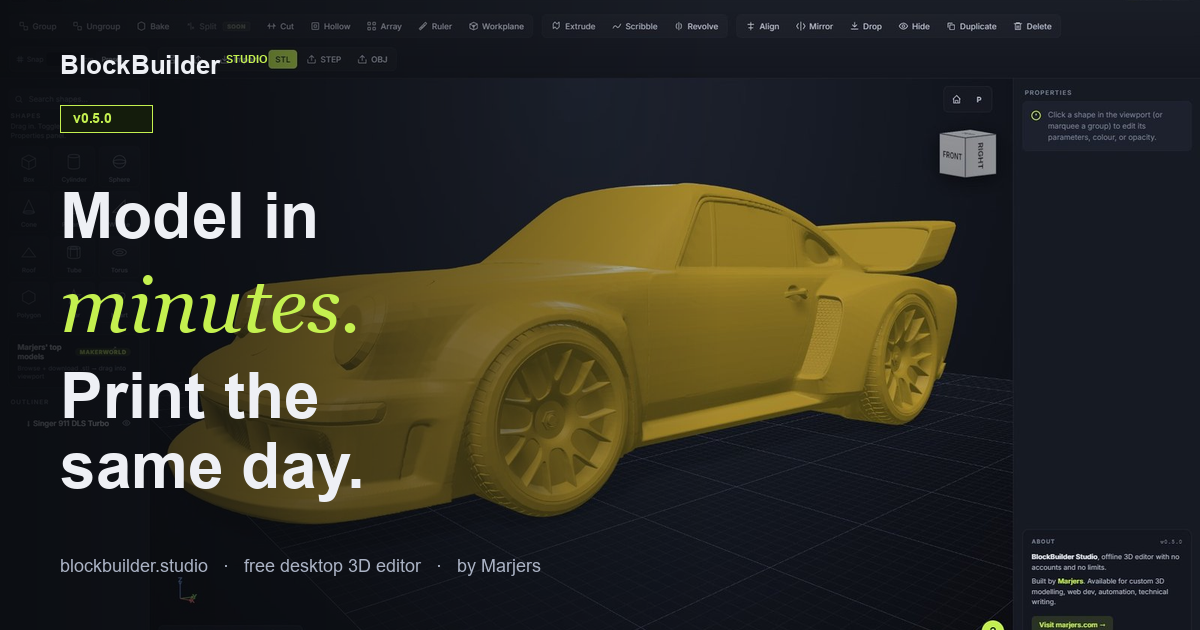
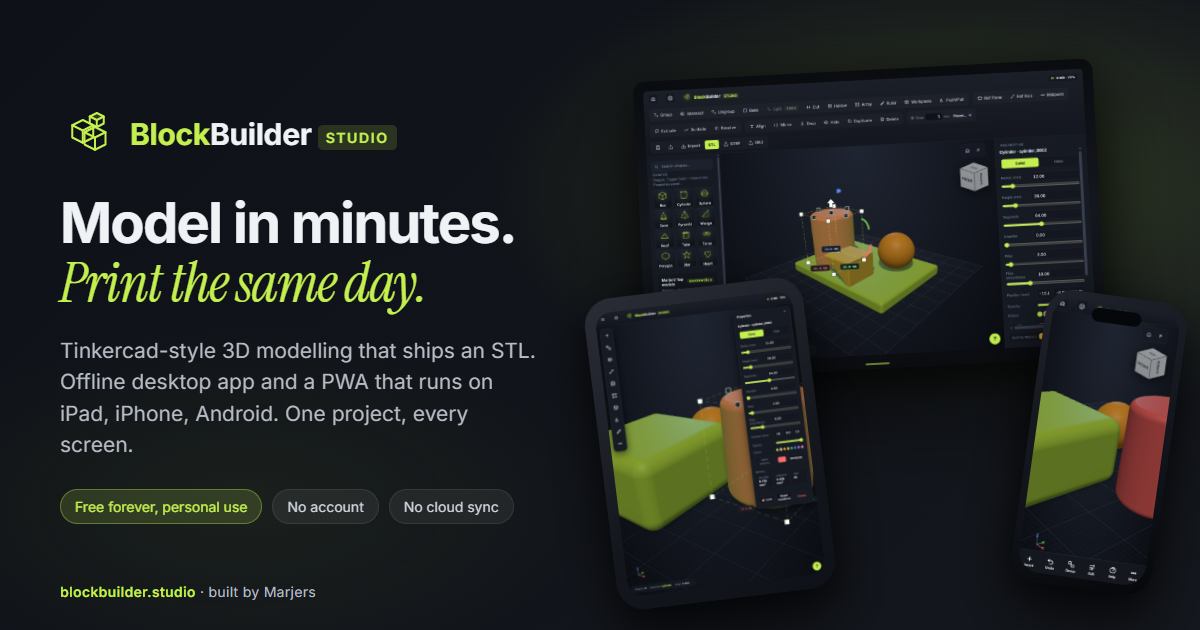
feat(site): fresh OG image + updated social meta tags
Replaced og-cover.png with a fresh 1200x630 composition: BlockBuilder
mark + name (with STUDIO badge), heading "Model in minutes. / Print the
same day." (serif italic accent), subtitle covering desktop + iPad +
iPhone + Android, three pills "Free forever", "No account", "No cloud
sync", and a 3-device mockup composition on the right (monitor angled
-3 with the desktop scene + tablet bottom-left -7 + phone bottom-right
+8 with notch). Lime radial accent in the corners.

og:title now leads with the tagline, og:description names the platforms
explicitly so a shared link in WhatsApp / Discord / Slack / Twitter
makes the multi-device story obvious in the preview card. Meta
description rewritten to mention push/pull, reference geometry,
sketch tools.

Source HTML used to compose the image (website/og-composer.html) removed
after the screenshot was captured; it lived just to be screenshotted at
1200x630 by Playwright.

diff --git a/website/index.html b/website/index.html
@@ -4,10 +4,10 @@
 <meta charset="utf-8" />
 <meta name="viewport" content="width=device-width, initial-scale=1" />
 <title>BlockBuilder Studio · Model in minutes. Print the same day.</title>
-<meta name="description" content="A drag-and-drop 3D editor that runs fully offline. Solid + hole CSG, STL/OBJ/STEP export, sketch tools. No accounts, no limits. Free for personal use. €12 lifetime commercial licence." />
+<meta name="description" content="Tinkercad-style 3D modelling that ships an STL. Offline desktop app for Windows / Mac / Linux and a PWA that runs on iPad, iPhone, Android. Solid + hole CSG, push/pull, reference geometry, sketch tools. No accounts, no cloud sync. Free for personal use, EUR 12 lifetime commercial licence." />
 <link rel="canonical" href="https://blockbuilder.studio" />
-<meta property="og:title" content="BlockBuilder Studio, offline 3D editor by Marjers" />
-<meta property="og:description" content="Drag-and-drop desktop 3D editor. No accounts. No limits. €12 lifetime commercial licence." />
+<meta property="og:title" content="BlockBuilder Studio, Model in minutes. Print the same day." />
+<meta property="og:description" content="Tinkercad-style 3D modelling that ships an STL. Offline desktop app + PWA on iPad / iPhone / Android. One project, every screen. Free for personal use." />
 <meta property="og:type" content="website" />
 <meta property="og:url" content="https://blockbuilder.studio" />
 <meta property="og:image" content="https://blockbuilder.studio/og-cover.png" />
